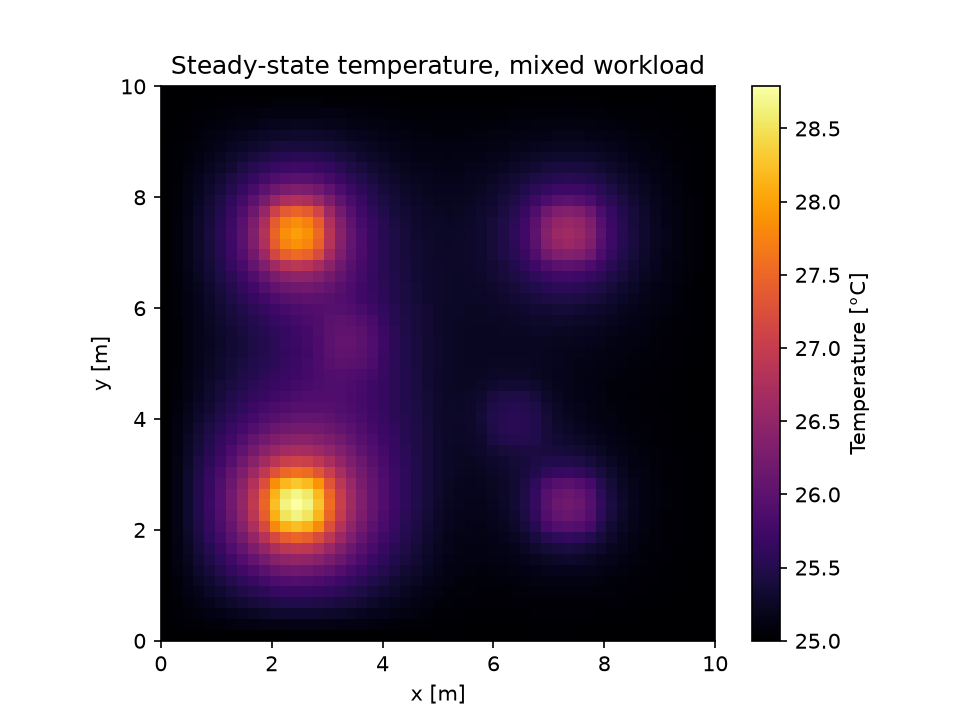
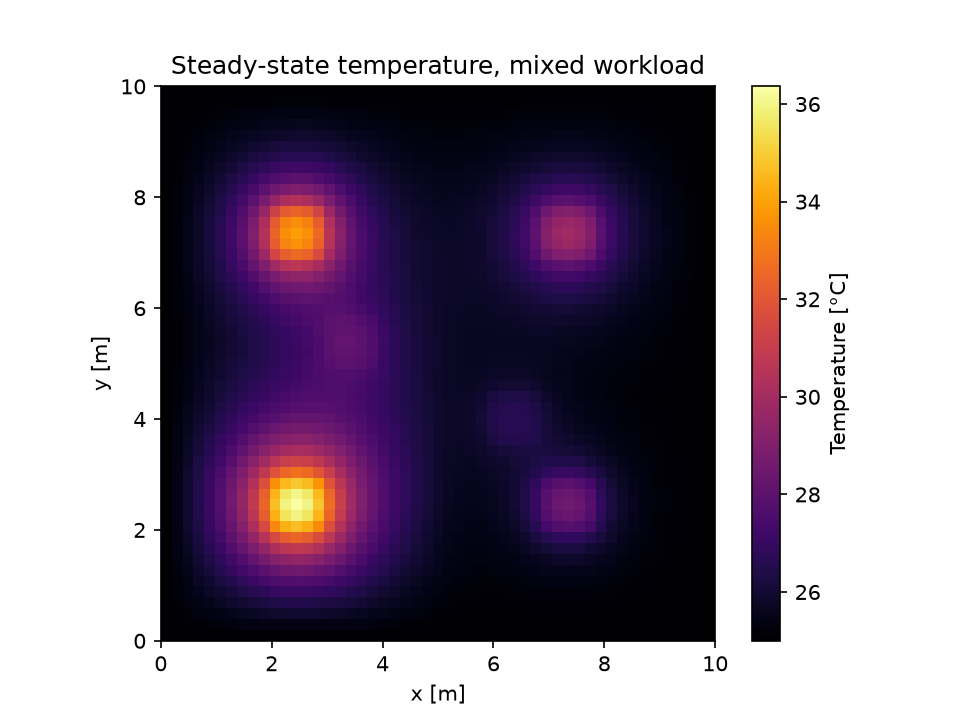
Tune Q_MAX, add sparse assembly, own CG, V3 energy balance, V5 cross-check

diff --git a/solver.py b/solver.py
@@ -1,9 +1,11 @@
 import numpy as np
+import scipy.sparse as sp
 
+# ---------------- constants ----------------
 L = 10.0            # room side length [m]
 T_AMB = 25.0        # ambient temperature [deg C]
 ALPHA = 0.05        # effective diffusivity [m^2/s]
-Q_MAX = 0.8         # max heating rate of a rack patch [K/s]
+Q_MAX = 2.4         # max heating rate of a rack patch [K/s]  (tuned, illustrative)
 THRESHOLD = 35.0    # hotspot threshold [deg C]
 
 # Rack centres (x, y) in metres
@@ -12,6 +14,8 @@ RACKS = [(2.5, 2.5), (2.5, 7.5), (7.5, 2.5), (7.5, 7.5), (3.5, 5.5), (6.5, 4.0)]
 # Cooling rates per quadrant [1/s]
 ZONES = {"SW": 0.02, "NW": 0.05, "NE": 0.05, "SE": 0.12}
 
+
+# ---------------- grid and maps ----------------
 def make_grid(n_cells, L=L):
     """n_cells cells per side -> n_cells+1 nodes per side. Index order [i, j] = [x, y]."""
     h = L / n_cells
@@ -24,14 +28,16 @@ def make_q(n_cells, centres, workloads, q_max=Q_MAX, size_m=1.0, L=L):
     """Heating-rate array q [K/s] on all nodes. Each rack is a size_m x size_m patch."""
     h = L / n_cells
     q = np.zeros((n_cells + 1, n_cells + 1))
-    m = int(round(size_m / h))                      # patch width in nodes
+    m = int(round(size_m / h))
     for (cx, cy), w in zip(centres, workloads):
         i0 = int(np.floor(cx / h - m / 2 + 0.5 + 1e-9))
         j0 = int(np.floor(cy / h - m / 2 + 0.5 + 1e-9))
         q[i0:i0 + m, j0:j0 + m] = w * q_max
     return q
 
+
 def make_gamma(n_cells, zones=ZONES, L=L):
+    """Cooling-rate map [1/s], four quadrants split at x = L/2, y = L/2."""
     h, x, X, Y = make_grid(n_cells, L)
     east = X >= L / 2 - 1e-12
     north = Y >= L / 2 - 1e-12
@@ -42,9 +48,12 @@ def make_gamma(n_cells, zones=ZONES, L=L):
     g[east & ~north] = zones["SE"]
     return g
 
+
+# ---------------- explicit time stepping ----------------
 def stable_dt(alpha, h, gamma_max, safety=0.9):
     """Sharp von Neumann limit: dt_max = 1 / (4 alpha/h^2 + gamma_max/2)."""
     return safety / (4 * alpha / h**2 + gamma_max / 2)
+
 
 def step(th, dt, alpha, h, gamma, q, bc="dirichlet"):
     lap = (th[2:, 1:-1] + th[:-2, 1:-1] + th[1:-1, 2:] + th[1:-1, :-2]
@@ -59,9 +68,9 @@ def step(th, dt, alpha, h, gamma, q, bc="dirichlet"):
         new[:, 0] = new[:, 1]; new[:, -1] = new[:, -2]
     return new
 
+
 def simulate(theta0, dt, t_end, alpha, h, gamma, q, bc="dirichlet", save_every=0):
-    """March from t=0 to t_end. dt is shrunk slightly so the run ends exactly at t_end
-    (a smaller dt stays stable)."""
+    """March from t=0 to t_end. dt is shrunk slightly so the run ends exactly at t_end."""
     n_steps = int(np.ceil(t_end / dt))
     dt = t_end / n_steps
     th = theta0.copy()
@@ -80,6 +89,7 @@ def simulate(theta0, dt, t_end, alpha, h, gamma, q, bc="dirichlet", save_every=0
             "t": np.linspace(0, t_end, n_steps + 1),
             "max_hist": max_hist, "min_hist": min_hist, "snaps": snaps}
 
+
 def run_to_steady(theta0, dt, alpha, h, gamma, q, bc="dirichlet",
                   tol=1e-6, t_max=2000.0):
     """March until max|theta_new - theta_old| / dt < tol [K/s]. Returns (theta, t_steady)."""
@@ -92,4 +102,51 @@ def run_to_steady(theta0, dt, alpha, h, gamma, q, bc="dirichlet",
         t += dt
         if rate < tol:
             return th, t
-    return th, t   # did not converge within t_max
+    return th, t
+
+
+# ---------------- steady state: sparse system and own CG ----------------
+def assemble(n, h, alpha, gamma_int):
+    """A = alpha * (-Laplacian_h) + diag(gamma) on the n x n interior nodes (Dirichlet walls)."""
+    T1 = sp.diags([-1, 2, -1], [-1, 0, 1], shape=(n, n))
+    I = sp.identity(n)
+    Lap = (sp.kron(I, T1) + sp.kron(T1, I)) / h**2
+    return (alpha * Lap + sp.diags(gamma_int.ravel())).tocsr()
+
+
+def cg(A, b, tol=1e-10, maxit=5000):
+    """Own Conjugate Gradient for SPD A. Returns (x, iterations)."""
+    x = np.zeros_like(b)
+    r = b - A @ x
+    p = r.copy()
+    rs = r @ r
+    nb = np.linalg.norm(b)
+    for k in range(maxit):
+        Ap = A @ p
+        a = rs / (p @ Ap)
+        x += a * p
+        r -= a * Ap
+        rs_new = r @ r
+        if np.sqrt(rs_new) < tol * nb:
+            return x, k + 1
+        p = r + (rs_new / rs) * p
+        rs = rs_new
+    return x, maxit
+
+
+def steady_solve(n_cells, alpha, gamma, q, method="cg", tol=1e-10):
+    """Steady theta on the full (n_cells+1)^2 grid, Dirichlet walls (theta = 0 there).
+    method: 'cg' (own CG) or 'direct' (scipy spsolve, reference only).
+    Returns (theta_full, iterations or None)."""
+    h = L / n_cells
+    n = n_cells - 1
+    A = assemble(n, h, alpha, gamma[1:-1, 1:-1])
+    b = q[1:-1, 1:-1].ravel()
+    if method == "cg":
+        sol, its = cg(A, b, tol=tol)
+    else:
+        from scipy.sparse.linalg import spsolve
+        sol, its = spsolve(A.tocsc(), b), None
+    th = np.zeros((n_cells + 1, n_cells + 1))
+    th[1:-1, 1:-1] = sol.reshape(n, n)
+    return th, its

diff --git a/validation.py b/validation.py
@@ -16,7 +16,7 @@ def v1_exact(n_cells=50, alpha=ALPHA, gamma0=0.05, A=1.0, t_end=10.0):
 
 
 def v4_superposition(t_end=50.0):
-    """Linearity: response at 90% load = 4.5 x response at 20% load (zero initial state)."""
+    """Linearity: response at 90% load = 4.5 x response at 20% load."""
     n = 50
     h, x, X, Y = make_grid(n)
     gamma = make_gamma(n)
@@ -38,17 +38,58 @@ def v6_max_principle(t_end=100.0):
     return out["min_hist"].min()
 
 
+def v3_energy_balance(n_cells=50):
+    """Steady state (own CG): sum q = sum gamma*theta + (alpha/h^2) * sum theta * (wall neighbours)."""
+    h = L / n_cells
+    gamma = make_gamma(n_cells)
+    q = make_q(n_cells, RACKS, [0.9, 0.9, 0.5, 0.5, 0.2, 0.2])
+    th, its = steady_solve(n_cells, ALPHA, gamma, q, method="cg")
+    ti = th[1:-1, 1:-1]
+    n = n_cells - 1
+    nw = np.zeros((n, n))
+    nw[0, :] += 1; nw[-1, :] += 1; nw[:, 0] += 1; nw[:, -1] += 1
+    heat_in = q[1:-1, 1:-1].sum()
+    cooling = (gamma[1:-1, 1:-1] * ti).sum()
+    wall = (ALPHA / h**2) * (ti * nw).sum()
+    return heat_in, cooling, wall, abs(heat_in - cooling - wall) / heat_in
+
+
+def v5_steady_crosscheck(n_cells=50):
+    """Time-marched steady state vs scipy spsolve vs own CG (max abs differences, in K)."""
+    h = L / n_cells
+    gamma = make_gamma(n_cells)
+    q = make_q(n_cells, RACKS, [0.9, 0.9, 0.5, 0.5, 0.2, 0.2])
+    dt = stable_dt(ALPHA, h, gamma.max())
+    th_t, t_ss = run_to_steady(np.zeros_like(q), dt, ALPHA, h, gamma, q, tol=1e-8, t_max=5000.0)
+    th_d, _ = steady_solve(n_cells, ALPHA, gamma, q, method="direct")
+    th_c, its = steady_solve(n_cells, ALPHA, gamma, q, method="cg")
+    return (np.max(np.abs(th_c - th_d)),
+            np.max(np.abs(th_t - th_d)),
+            its, t_ss, th_d.max())
+
+
 if __name__ == "__main__":
     e = v1_exact()
-    print(f"V1 exact-solution RMSE      : {e:.3e}")
+    print(f"V1 exact-solution RMSE         : {e:.3e}")
     assert e < 5e-3, "V1 failed"
 
     d = v4_superposition()
-    print(f"V4 superposition max error  : {d:.3e}")
+    print(f"V4 superposition max error     : {d:.3e}")
     assert d < 1e-9, "V4 failed"
 
     m = v6_max_principle()
-    print(f"V6 minimum theta over run   : {m:.3e}")
+    print(f"V6 minimum theta over run      : {m:.3e}")
     assert m >= -1e-12, "V6 failed"
 
-    print("All Phase 1 validations passed.")
+    qin, cool, wall, rel = v3_energy_balance()
+    print(f"V3 heat in={qin:.6f}  cooling={cool:.6f}  wall={wall:.6f}  rel. imbalance={rel:.3e}")
+    assert rel < 1e-8, "V3 failed"
+
+    d_cg, d_t, its, t_ss, peak = v5_steady_crosscheck()
+    print(f"V5 |CG - spsolve|  max         : {d_cg:.3e} K   (CG iterations = {its})")
+    print(f"V5 |marched - spsolve| max     : {d_t:.3e} K   (steady at t = {t_ss:.1f} s)")
+    print(f"   steady peak T (mixed load)  : {T_AMB + peak:.2f} C")
+    assert d_cg < 1e-8, "V5 CG vs spsolve failed"
+    assert d_t < 1e-3, "V5 marched vs spsolve failed"
+
+    print("All Phase 1 + 2 validations passed.")
